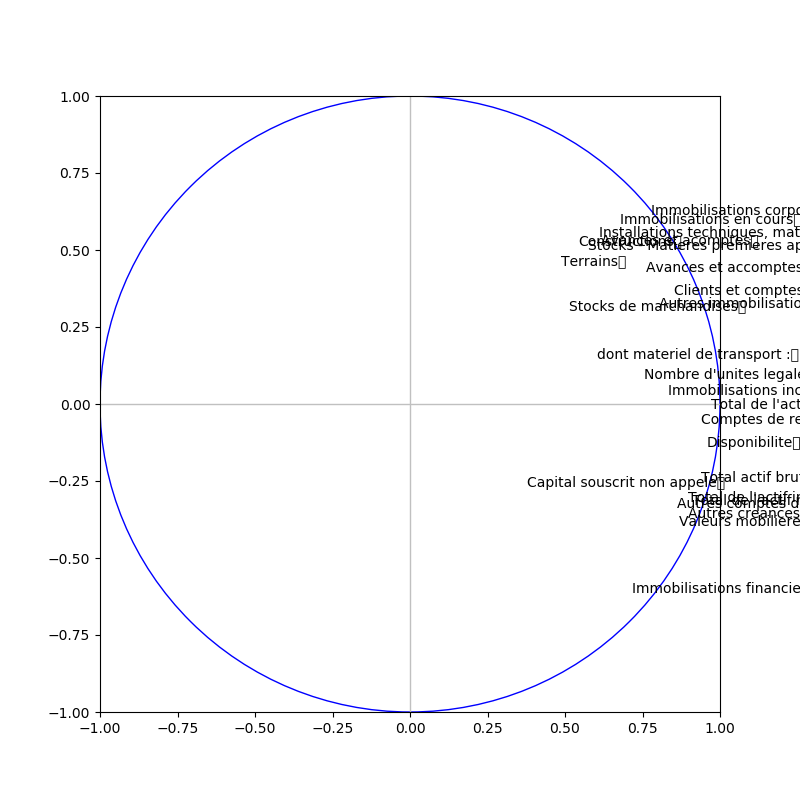
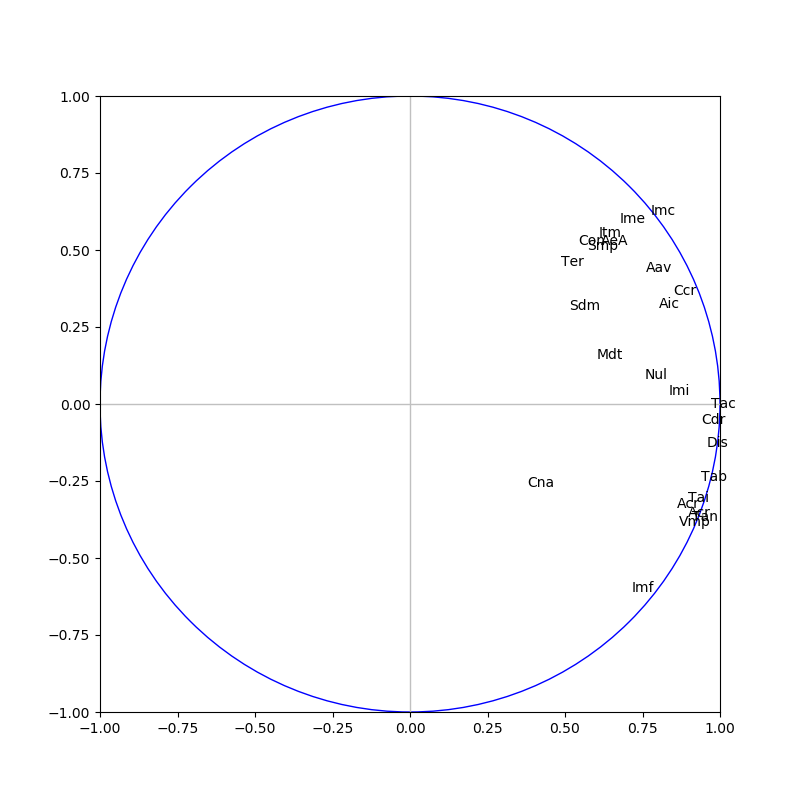
Maj

diff --git a/projet.py b/projet.py
@@ -12,7 +12,7 @@ import fonction as fct
 
 X = open("bilan_X.txt","r")
 Y = open("bilan_secteurs.txt","r")
-C = open("bilan_caracteristiques.txt")
+C = open("bilan_caracteristique_abbr.txt")
 resultat = open("resultat.txt","w")
 
 #Initialisation des variables
@@ -137,7 +137,7 @@ ctrvar = cos2var
 for k in range(p):     
 	ctrvar[:,k] = ctrvar[:,k]/eigval[k] 
  
-print(pandas.DataFrame({'id':X.columns,'CTR_1':ctrvar[:,0],'CTR_2':ctrvar[:,1]})) 
+print(pandas.DataFrame({'id':caracteristique,'CTR_1':ctrvar[:,0],'CTR_2':ctrvar[:,1]})) 
 
 #Affichage
 
